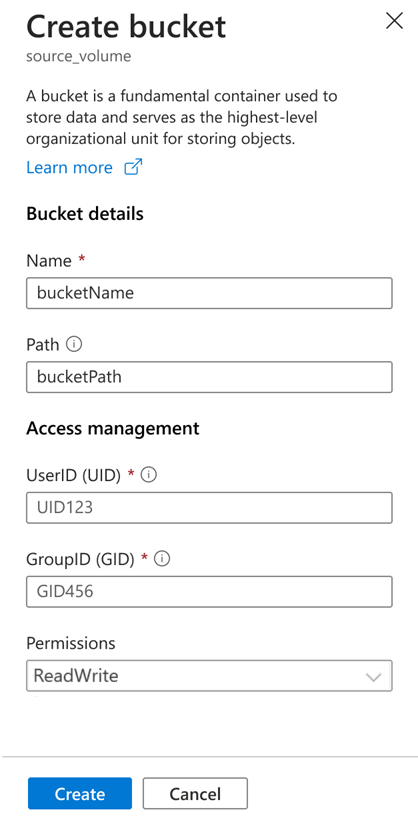
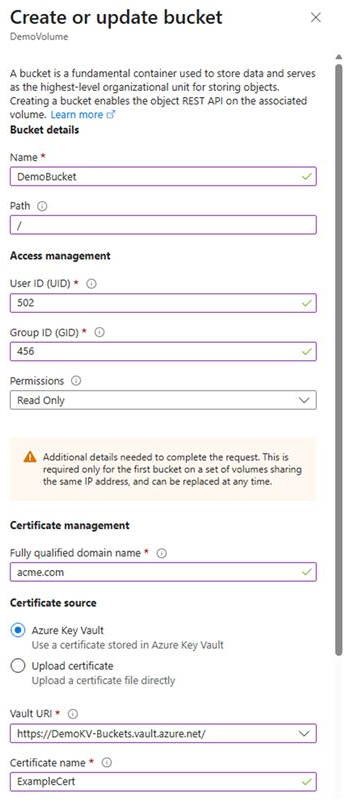
Incorporating PM inputs

Changed region(s): [[0.0, 0.0, 1.0, 0.9988], [0.8721, 0.1873, 0.9302, 0.3121], [0.9012, 0.0, 0.9593, 0.0312]]

diff --git a/articles/azure-netapp-files/object-rest-api-access-configure.md b/articles/azure-netapp-files/object-rest-api-access-configure.md
@@ -24,26 +24,30 @@ Azure NetApp Files now supports two certificate workflows for Object REST API ac
 1. Azure Key Vault–based certificates, which are created and selected by reference during bucket creation 
 1. Direct certificate upload, where PEM certificates are generated locally and uploaded at bucket creation time.
 
+### Using Azure Key Vault as the certificate source
 
+When creating the certificate, ensure:
+
+* the **Content Type** is set to PKCS#12 
+* the **Subject** field is set to the IP address or fully qualified domain name (FQDN) of your Azure NetApp Files endpoint using the format `"CN=<IP or FQDN>"`
+* the **DNS Names** entry specifies the IP address or FQDN
+
+### Upload the certificate manually
 <!-- DNS? -->
 
-### [Portal](#tab/portal)
+#### [Portal](#tab/portal)
 
 See the [Azure Key Vault documentation for adding a certificate to Key Vault](/azure//key-vault/certificates/quick-create-portal#add-a-certificate-to-key-vault). 
 
 When creating the certificate, ensure:
 
-* the **Content Type** is set to PKCS#12 
-
->NOTE
->The PEM content type can still be used if the certificate is not stored in Azure Key Vault.
-
+* the **Content Type** is set to PEM 
 * the **Subject** field is set to the IP address or fully qualified domain name (FQDN) of your Azure NetApp Files endpoint using the format `"CN=<IP or FQDN>"`
 * the **DNS Names** entry specifies the IP address or FQDN
 
 :::image type="content" source="./media/object-rest-api-access-configure/create-certificate.png" alt-text="Screenshot of create certificate options." lightbox="./media/object-rest-api-access-configure/create-certificate.png":::
 
-### [Script](#tab/script)
+#### [Script](#tab/script)
 
 This script creates a certificate locally. Set the computer name `CN=` to the IP address or fully qualified domain name (FQDN) of your object REST API-enabled endpoint. This script creates a folder that includes the necessary PEM file and private keys. 
 
@@ -101,24 +105,20 @@ To enable object REST API, you must create a bucket.
 
         Select Read or Read-Write. 
 
-    :::image type="content" source="./media/object-rest-api-access-configure/create-bucket.png" alt-text="Screenshot of create a bucket menu." lightbox="./media/object-rest-api-access-configure/create-bucket.png":::
-
-1. If you haven't provided a certificate, you can do one of the following:
-
-    1. If the certificate was generated and stored in Key Vault, use the PKCS#12 certificate  directly from the Azure Key Vault.  
-
-    1. If the certificate was generated locally (PEM), upload the PEM file by providing the following information:
-
     * **Fully qualified domain name**
 
         Enter the fully qualified domain name. 
 
-    * **Certificate source**
+    :::image type="content" source="./media/object-rest-api-access-configure/create-bucket.png" alt-text="Screenshot of create a bucket menu." lightbox="./media/object-rest-api-access-configure/create-bucket.png":::
 
-        Upload the appropriate certificate. Only PEM files are supported. 
 
-    Select **Save**. 
+1. For the **Certificate source**, you can do one of the following:
 
+    1. To use a certificate stored in the Azure Key Vault, select **Azure Key Vault** and use the PKCS#12 certificate directly from the Azure Key Vault.  
+
+    1. To upload the certificate manually, select **Upload Certificate** and upload the PEM) certificate.
+
+  
 1. Select **Create**. 
 
 After you create a bucket, you need to generate credentials to access the bucket.
